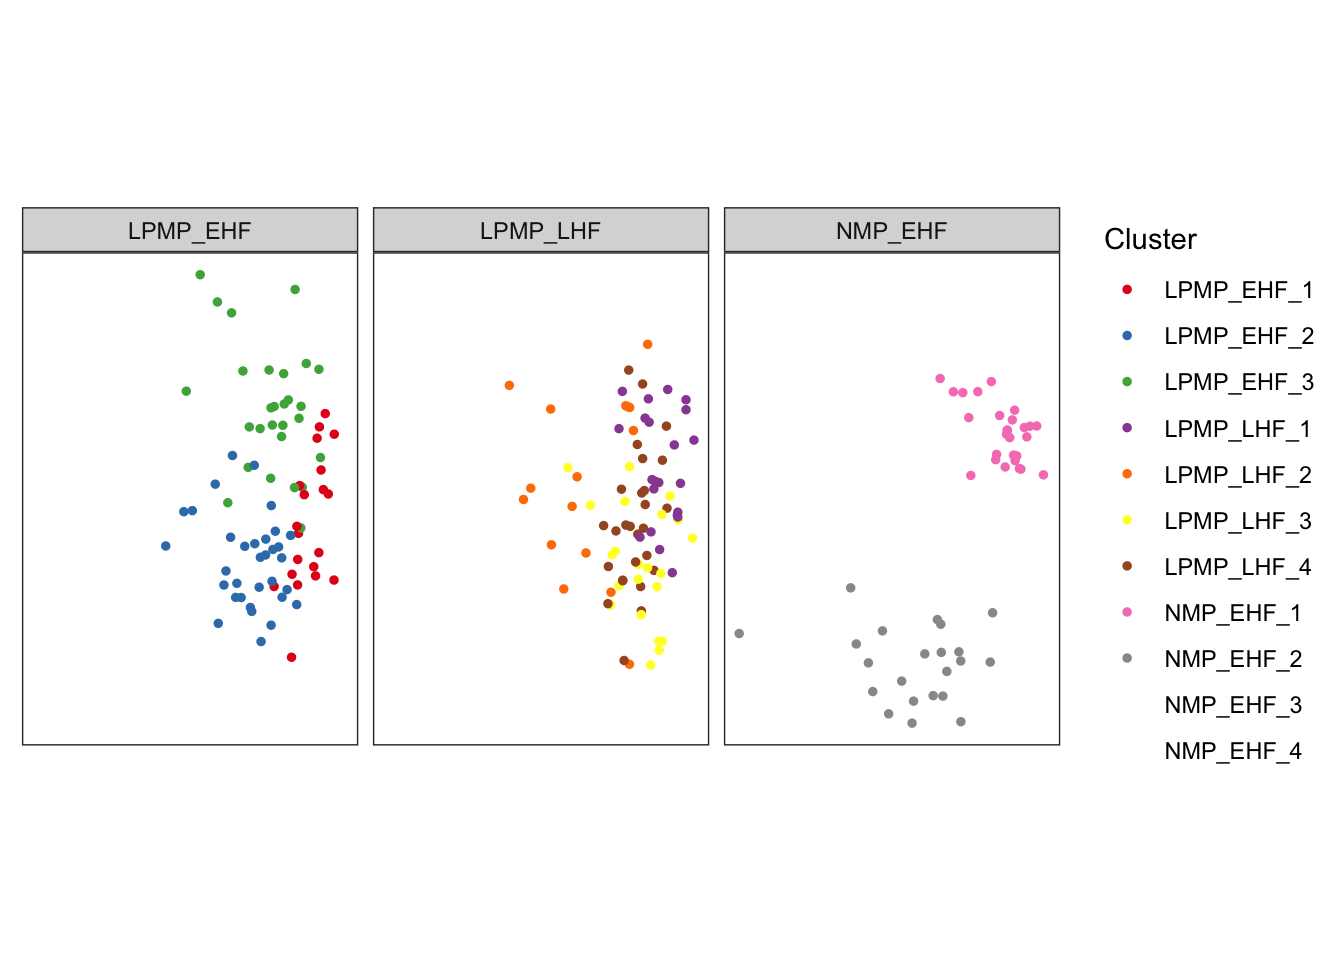
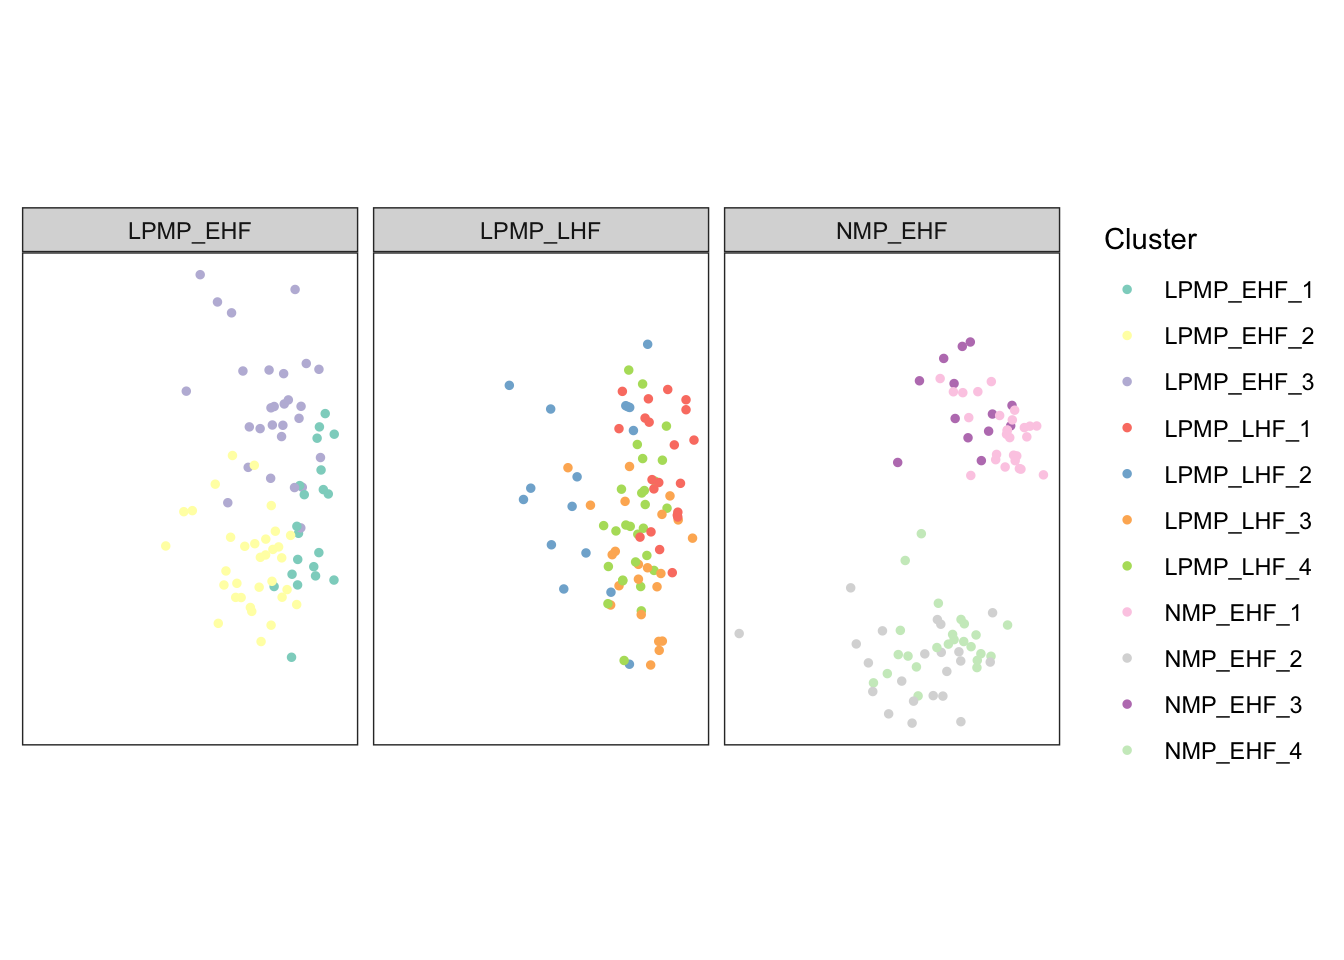
Build

diff --git a/docs/01-batch-integration.html b/docs/01-batch-integration.html
@@ -556,16 +556,16 @@ This reproducible <a href="http://rmarkdown.rstudio.com">R Markdown</a> analysis
 <div class="panel panel-default">
 <div class="panel-heading">
 <p class="panel-title">
-<a data-toggle="collapse" data-parent="#workflowr-checks" href="#strongRepositoryversionstrongahrefhttpsgithubcomjma1991LPMPNMPtreeae8e3f651aba0223f9568f2be6cdc426930d83eftargetblankae8e3f6a"> <span class="glyphicon glyphicon-ok text-success" aria-hidden="true"></span> <strong>Repository version:</strong> <a href="https://github.com/jma1991/LPMP_NMP/tree/ae8e3f651aba0223f9568f2be6cdc426930d83ef" target="_blank">ae8e3f6</a> </a>
+<a data-toggle="collapse" data-parent="#workflowr-checks" href="#strongRepositoryversionstrongahrefhttpsgithubcomjma1991LPMPNMPtree3438d90471807810c9c7e15e8d43d0286284267atargetblank3438d90a"> <span class="glyphicon glyphicon-ok text-success" aria-hidden="true"></span> <strong>Repository version:</strong> <a href="https://github.com/jma1991/LPMP_NMP/tree/3438d90471807810c9c7e15e8d43d0286284267a" target="_blank">3438d90</a> </a>
 </p>
 </div>
[2 lines of base64/hex data omitted]
 <div class="panel-body">
 <p>
 Great! You are using Git for version control. Tracking code development and connecting the code version to the results is critical for reproducibility.
 </p>
 <p>
-The results in this page were generated with repository version <a href="https://github.com/jma1991/LPMP_NMP/tree/ae8e3f651aba0223f9568f2be6cdc426930d83ef" target="_blank">ae8e3f6</a>. See the <em>Past versions</em> tab to see a history of the changes made to the R Markdown and HTML files.
+The results in this page were generated with repository version <a href="https://github.com/jma1991/LPMP_NMP/tree/3438d90471807810c9c7e15e8d43d0286284267a" target="_blank">3438d90</a>. See the <em>Past versions</em> tab to see a history of the changes made to the R Markdown and HTML files.
 </p>
 <p>
 Note that you need to be careful to ensure that all relevant files for the analysis have been committed to Git prior to generating the results (you can use <code>wflow_publish</code> or <code>wflow_git_commit</code>). workflowr only checks the R Markdown file, but you know if there are other scripts or data files that it depends on. Below is the status of the Git repository when the results were generated:
@@ -615,6 +615,40 @@ Message
 </tr>
 </thead>
 <tbody>
+<tr>
+<td>
+Rmd
+</td>
+<td>
+<a href="https://github.com/jma1991/LPMP_NMP/blob/3438d90471807810c9c7e15e8d43d0286284267a/analysis/01-batch-integration.Rmd" target="_blank">3438d90</a>
+</td>
+<td>
+James Ashmore
+</td>
+<td>
+2021-02-12
+</td>
+<td>
+Build
+</td>
+</tr>
+<tr>
+<td>
+html
+</td>
+<td>
+<a href="https://rawcdn.githack.com/jma1991/LPMP_NMP/5ea296e7bcf046b2d395bae2689a126cf6281445/docs/01-batch-integration.html" target="_blank">5ea296e</a>
+</td>
+<td>
+James Ashmore
+</td>
+<td>
+2021-02-12
+</td>
+<td>
+Build
+</td>
+</tr>
 <tr>
 <td>
 Rmd
@@ -1093,7 +1127,7 @@ James Ashmore
 <p>Visualize the corrected PCA:</p>
 <pre class="r"><code>ggcells(mnn, aes(corrected.1, corrected.2, colour = cluster)) + 
   geom_point(size = 1) + 
-  scale_colour_brewer(name = &quot;Cluster&quot;, palette = &quot;Set1&quot;) + 
+  scale_colour_brewer(name = &quot;Cluster&quot;, palette = &quot;Set3&quot;) + 
   labs(x = &quot;PCA 1&quot;, y = &quot;PCA 2&quot;) + 
   facet_wrap(~ batch) + 
   theme_no_axes() + 
@@ -1123,6 +1157,17 @@ Date
 <tbody>
 <tr>
 <td>
+<a href="https://github.com/jma1991/LPMP_NMP/blob/5ea296e7bcf046b2d395bae2689a126cf6281445/docs/figure/01-batch-integration.Rmd/unnamed-chunk-20-1.png" target="_blank">5ea296e</a>
+</td>
+<td>
+James Ashmore
+</td>
+<td>
+2021-02-12
+</td>
+</tr>
+<tr>
+<td>
 <a href="https://github.com/jma1991/LPMP_NMP/blob/ff606967f8dfe04a0a1f6e6fed8fa859b78c2b74/docs/figure/01-batch-integration.Rmd/unnamed-chunk-20-1.png" target="_blank">ff60696</a>
 </td>
 <td>
@@ -1143,7 +1188,7 @@ mnn &lt;- runTSNE(mnn, dimred = &quot;corrected&quot;)</code></pre>
 <p>Visualize the corrected PCA using a TSNE plot:</p>
 <pre class="r"><code>ggcells(mnn, aes(TSNE.1, TSNE.2, colour = cluster)) +
   geom_point(size = 1) +
-  scale_colour_brewer(name = &quot;Cluster&quot;, palette = &quot;Set1&quot;) + 
+  scale_colour_brewer(name = &quot;Cluster&quot;, palette = &quot;Set3&quot;) + 
   labs(x = &quot;TSNE 1&quot;, y = &quot;TSNE 2&quot;) +
   facet_wrap(~ batch) +
   theme_no_axes() + 
@@ -1173,6 +1218,17 @@ Date
 <tbody>
 <tr>
 <td>
+<a href="https://github.com/jma1991/LPMP_NMP/blob/5ea296e7bcf046b2d395bae2689a126cf6281445/docs/figure/01-batch-integration.Rmd/unnamed-chunk-22-1.png" target="_blank">5ea296e</a>
+</td>
+<td>
+James Ashmore
+</td>
+<td>
+2021-02-12
+</td>
+</tr>
+<tr>
+<td>
 <a href="https://github.com/jma1991/LPMP_NMP/blob/ff606967f8dfe04a0a1f6e6fed8fa859b78c2b74/docs/figure/01-batch-integration.Rmd/unnamed-chunk-22-1.png" target="_blank">ff60696</a>
 </td>
 <td>
@@ -1193,7 +1249,7 @@ mnn &lt;- runUMAP(mnn, dimred = &quot;corrected&quot;)</code></pre>
 <p>Visualize the corrected PCA using a UMAP plot:</p>
 <pre class="r"><code>ggcells(mnn, aes(UMAP.1, UMAP.2, colour = cluster)) +
   geom_point(size = 1) +
-  scale_colour_brewer(name = &quot;Cluster&quot;, palette = &quot;Set1&quot;) +
+  scale_colour_brewer(name = &quot;Cluster&quot;, palette = &quot;Set3&quot;) +
   labs(x = &quot;UMAP 1&quot;, y = &quot;UMAP 2&quot;) +
   facet_wrap(~ batch) +
   theme_no_axes() + 
@@ -1221,6 +1277,17 @@ Date
 </tr>
 </thead>
 <tbody>
+<tr>
+<td>
+<a href="https://github.com/jma1991/LPMP_NMP/blob/5ea296e7bcf046b2d395bae2689a126cf6281445/docs/figure/01-batch-integration.Rmd/unnamed-chunk-24-1.png" target="_blank">5ea296e</a>
+</td>
+<td>
+James Ashmore
+</td>
+<td>
+2021-02-12
+</td>
+</tr>
 <tr>
 <td>
 <a href="https://github.com/jma1991/LPMP_NMP/blob/ff606967f8dfe04a0a1f6e6fed8fa859b78c2b74/docs/figure/01-batch-integration.Rmd/unnamed-chunk-24-1.png" target="_blank">ff60696</a>

diff --git a/docs/license.html b/docs/license.html
@@ -417,16 +417,16 @@ This reproducible <a href="http://rmarkdown.rstudio.com">R Markdown</a> analysis
 <div class="panel panel-default">
 <div class="panel-heading">
 <p class="panel-title">
-<a data-toggle="collapse" data-parent="#workflowr-checks" href="#strongRepositoryversionstrongahrefhttpsgithubcomjma1991LPMPNMPtreeae8e3f651aba0223f9568f2be6cdc426930d83eftargetblankae8e3f6a"> <span class="glyphicon glyphicon-ok text-success" aria-hidden="true"></span> <strong>Repository version:</strong> <a href="https://github.com/jma1991/LPMP_NMP/tree/ae8e3f651aba0223f9568f2be6cdc426930d83ef" target="_blank">ae8e3f6</a> </a>
+<a data-toggle="collapse" data-parent="#workflowr-checks" href="#strongRepositoryversionstrongahrefhttpsgithubcomjma1991LPMPNMPtree3438d90471807810c9c7e15e8d43d0286284267atargetblank3438d90a"> <span class="glyphicon glyphicon-ok text-success" aria-hidden="true"></span> <strong>Repository version:</strong> <a href="https://github.com/jma1991/LPMP_NMP/tree/3438d90471807810c9c7e15e8d43d0286284267a" target="_blank">3438d90</a> </a>
 </p>
 </div>
[2 lines of base64/hex data omitted]
 <div class="panel-body">
 <p>
 Great! You are using Git for version control. Tracking code development and connecting the code version to the results is critical for reproducibility.
 </p>
 <p>
-The results in this page were generated with repository version <a href="https://github.com/jma1991/LPMP_NMP/tree/ae8e3f651aba0223f9568f2be6cdc426930d83ef" target="_blank">ae8e3f6</a>. See the <em>Past versions</em> tab to see a history of the changes made to the R Markdown and HTML files.
+The results in this page were generated with repository version <a href="https://github.com/jma1991/LPMP_NMP/tree/3438d90471807810c9c7e15e8d43d0286284267a" target="_blank">3438d90</a>. See the <em>Past versions</em> tab to see a history of the changes made to the R Markdown and HTML files.
 </p>
 <p>
 Note that you need to be careful to ensure that all relevant files for the analysis have been committed to Git prior to generating the results (you can use <code>wflow_publish</code> or <code>wflow_git_commit</code>). workflowr only checks the R Markdown file, but you know if there are other scripts or data files that it depends on. Below is the status of the Git repository when the results were generated:
@@ -476,6 +476,23 @@ Message
 </tr>
 </thead>
 <tbody>
+<tr>
+<td>
+html
+</td>
+<td>
+<a href="https://rawcdn.githack.com/jma1991/LPMP_NMP/5ea296e7bcf046b2d395bae2689a126cf6281445/docs/license.html" target="_blank">5ea296e</a>
+</td>
+<td>
+James Ashmore
+</td>
+<td>
+2021-02-12
+</td>
+<td>
+Build
+</td>
+</tr>
 <tr>
 <td>
 html

diff --git a/docs/about.html b/docs/about.html
@@ -417,16 +417,16 @@ This reproducible <a href="http://rmarkdown.rstudio.com">R Markdown</a> analysis
 <div class="panel panel-default">
 <div class="panel-heading">
 <p class="panel-title">
-<a data-toggle="collapse" data-parent="#workflowr-checks" href="#strongRepositoryversionstrongahrefhttpsgithubcomjma1991LPMPNMPtreeae8e3f651aba0223f9568f2be6cdc426930d83eftargetblankae8e3f6a"> <span class="glyphicon glyphicon-ok text-success" aria-hidden="true"></span> <strong>Repository version:</strong> <a href="https://github.com/jma1991/LPMP_NMP/tree/ae8e3f651aba0223f9568f2be6cdc426930d83ef" target="_blank">ae8e3f6</a> </a>
+<a data-toggle="collapse" data-parent="#workflowr-checks" href="#strongRepositoryversionstrongahrefhttpsgithubcomjma1991LPMPNMPtree3438d90471807810c9c7e15e8d43d0286284267atargetblank3438d90a"> <span class="glyphicon glyphicon-ok text-success" aria-hidden="true"></span> <strong>Repository version:</strong> <a href="https://github.com/jma1991/LPMP_NMP/tree/3438d90471807810c9c7e15e8d43d0286284267a" target="_blank">3438d90</a> </a>
 </p>
 </div>
[2 lines of base64/hex data omitted]
 <div class="panel-body">
 <p>
 Great! You are using Git for version control. Tracking code development and connecting the code version to the results is critical for reproducibility.
 </p>
 <p>
-The results in this page were generated with repository version <a href="https://github.com/jma1991/LPMP_NMP/tree/ae8e3f651aba0223f9568f2be6cdc426930d83ef" target="_blank">ae8e3f6</a>. See the <em>Past versions</em> tab to see a history of the changes made to the R Markdown and HTML files.
+The results in this page were generated with repository version <a href="https://github.com/jma1991/LPMP_NMP/tree/3438d90471807810c9c7e15e8d43d0286284267a" target="_blank">3438d90</a>. See the <em>Past versions</em> tab to see a history of the changes made to the R Markdown and HTML files.
 </p>
 <p>
 Note that you need to be careful to ensure that all relevant files for the analysis have been committed to Git prior to generating the results (you can use <code>wflow_publish</code> or <code>wflow_git_commit</code>). workflowr only checks the R Markdown file, but you know if there are other scripts or data files that it depends on. Below is the status of the Git repository when the results were generated:
@@ -476,6 +476,23 @@ Message
 </tr>
 </thead>
 <tbody>
+<tr>
+<td>
+html
+</td>
+<td>
+<a href="https://rawcdn.githack.com/jma1991/LPMP_NMP/5ea296e7bcf046b2d395bae2689a126cf6281445/docs/about.html" target="_blank">5ea296e</a>
+</td>
+<td>
+James Ashmore
+</td>
+<td>
+2021-02-12
+</td>
+<td>
+Build
+</td>
+</tr>
 <tr>
 <td>
 html

diff --git a/docs/index.html b/docs/index.html
@@ -417,16 +417,16 @@ This reproducible <a href="http://rmarkdown.rstudio.com">R Markdown</a> analysis
 <div class="panel panel-default">
 <div class="panel-heading">
 <p class="panel-title">
-<a data-toggle="collapse" data-parent="#workflowr-checks" href="#strongRepositoryversionstrongahrefhttpsgithubcomjma1991LPMPNMPtreeae8e3f651aba0223f9568f2be6cdc426930d83eftargetblankae8e3f6a"> <span class="glyphicon glyphicon-ok text-success" aria-hidden="true"></span> <strong>Repository version:</strong> <a href="https://github.com/jma1991/LPMP_NMP/tree/ae8e3f651aba0223f9568f2be6cdc426930d83ef" target="_blank">ae8e3f6</a> </a>
+<a data-toggle="collapse" data-parent="#workflowr-checks" href="#strongRepositoryversionstrongahrefhttpsgithubcomjma1991LPMPNMPtree3438d90471807810c9c7e15e8d43d0286284267atargetblank3438d90a"> <span class="glyphicon glyphicon-ok text-success" aria-hidden="true"></span> <strong>Repository version:</strong> <a href="https://github.com/jma1991/LPMP_NMP/tree/3438d90471807810c9c7e15e8d43d0286284267a" target="_blank">3438d90</a> </a>
 </p>
 </div>
[2 lines of base64/hex data omitted]
 <div class="panel-body">
 <p>
 Great! You are using Git for version control. Tracking code development and connecting the code version to the results is critical for reproducibility.
 </p>
 <p>
-The results in this page were generated with repository version <a href="https://github.com/jma1991/LPMP_NMP/tree/ae8e3f651aba0223f9568f2be6cdc426930d83ef" target="_blank">ae8e3f6</a>. See the <em>Past versions</em> tab to see a history of the changes made to the R Markdown and HTML files.
+The results in this page were generated with repository version <a href="https://github.com/jma1991/LPMP_NMP/tree/3438d90471807810c9c7e15e8d43d0286284267a" target="_blank">3438d90</a>. See the <em>Past versions</em> tab to see a history of the changes made to the R Markdown and HTML files.
 </p>
 <p>
 Note that you need to be careful to ensure that all relevant files for the analysis have been committed to Git prior to generating the results (you can use <code>wflow_publish</code> or <code>wflow_git_commit</code>). workflowr only checks the R Markdown file, but you know if there are other scripts or data files that it depends on. Below is the status of the Git repository when the results were generated:
@@ -476,6 +476,23 @@ Message
 </tr>
 </thead>
 <tbody>
+<tr>
+<td>
+html
+</td>
+<td>
+<a href="https://rawcdn.githack.com/jma1991/LPMP_NMP/5ea296e7bcf046b2d395bae2689a126cf6281445/docs/index.html" target="_blank">5ea296e</a>
+</td>
+<td>
+James Ashmore
+</td>
+<td>
+2021-02-12
+</td>
+<td>
+Build
+</td>
+</tr>
 <tr>
 <td>
 html
